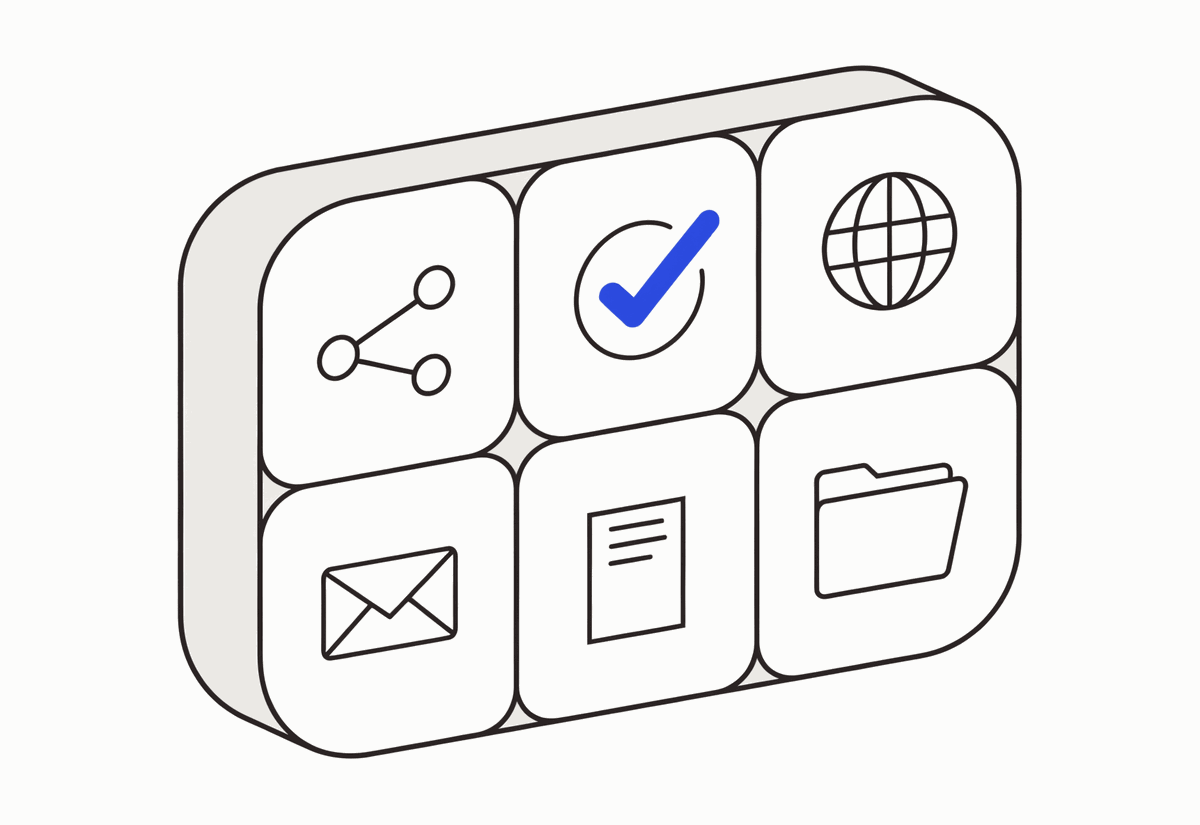
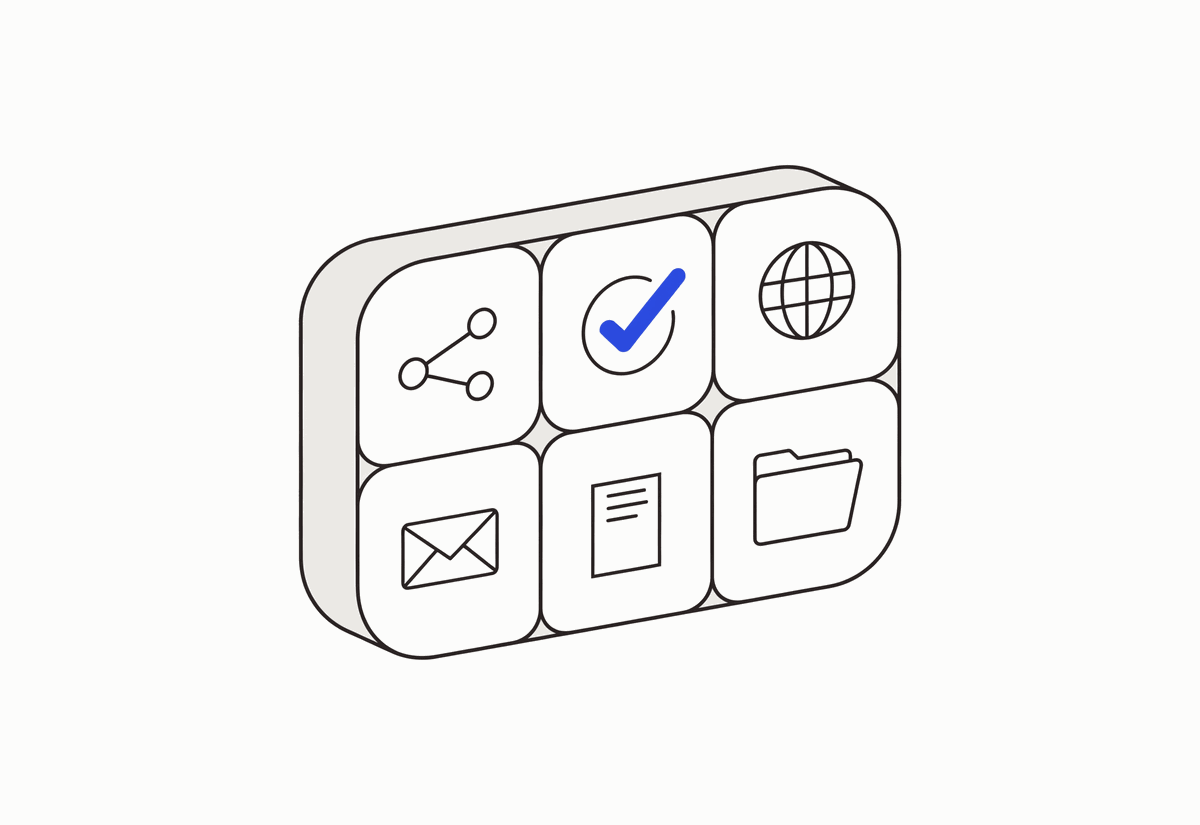
Value section: the Switch tools picture redrawn on one isometric grid, Built in smaller (note #1131)
Adam, 10 Nov 2026, 12:40 UTC, on the live section: the right picture
"should have more attention to details ... those shapes, they should be
aligned with each other", and the left "feels too much enlarged".

Switch tools, keep the context: redrawn by hand as an SVG (10 KB), every
shape computed on one true isometric grid. The base and three plates (notes
page, indented code, clock) share one footprint on one vertical axis with
equal gaps, held by one post; the blue cap is docked on top; the two spare
caps (a disc and a hexagon) stand on the same ground. Regenerating on
fal.ai was not possible: the account's balance is exhausted.

Built in: the same fal.ai picture, re-exported to fill 60% of its frame's
height instead of 84%, so it sits in proportion with the tower and the
words on a desk and on a phone.

diff --git a/src/components/ValueSection.tsx b/src/components/ValueSection.tsx
@@ -2,18 +2,23 @@ import { H2, Screen } from './landing-kit';
 import { VALUE_FACTS, VALUE_HEADING, VALUE_LEAD } from '../lib/value-copy';
 import builtIn640 from '../assets/landing/value/built-in-640.webp';
 import builtIn1200 from '../assets/landing/value/built-in-1200.webp';
-import switchTools640 from '../assets/landing/value/switch-tools-640.webp';
-import switchTools1200 from '../assets/landing/value/switch-tools-1200.webp';
+import switchTools from '../assets/landing/value/switch-tools.svg';
 
 /* One picture over each fact (note #1131, Adam, 10 Nov 2026, 11:26 UTC: the
-   pair he picked of three candidates each). Made with fal.ai (Recraft V4.1
-   Pro), held to the page's own colours; the prompts are on note #1131. The
-   page colour (#fcfcfb) is baked into each file, so no box shows. The words
-   under each picture say everything it shows, so the picture is decorative
-   (alt=""). 640 px serves a phone at 1x/2x, 1200 px a desk or a 3x phone. */
-const ART: Readonly<Record<string, readonly [string, string]>> = {
-  'Built in': [builtIn640, builtIn1200],
-  'Switch tools, keep the context': [switchTools640, switchTools1200],
+   pair he picked of three candidates each). "Built in" was made with fal.ai
+   (Recraft V4.1 Pro, prompts on note #1131): two lossless WebP files with the
+   page colour (#fcfcfb) baked in, so no box shows, 640 px for a phone at
+   1x/2x and 1200 px for a desk or a 3x phone. The drawing fills 60% of its
+   frame's height, since Adam found it "too much enlarged" at 84% (12:40 UTC).
+   "Switch tools, keep the context" was redrawn by hand as an SVG on one true
+   isometric grid after Adam asked that its shapes be "aligned with each
+   other" (12:40 UTC): every plate the same footprint on one vertical axis,
+   the blue cap docked on top, the two spare caps on the same ground. The
+   words under each picture say everything it shows, so both are decorative
+   (alt=""). */
+const ART: Readonly<Record<string, { src: string; srcSet?: string }>> = {
+  'Built in': { src: builtIn1200, srcSet: `${builtIn640} 640w, ${builtIn1200} 1200w` },
+  'Switch tools, keep the context': { src: switchTools },
 };
 
 /* The value in one breath (note #1085): its words live in lib/value-copy. */
@@ -27,14 +32,14 @@ export default function ValueSection() {
           identical cards, no eyebrows, no numbers). */}
       <dl className="mt-8 grid gap-x-10 sm:mt-10 sm:grid-cols-2">
         {VALUE_FACTS.map(({ title, line }) => {
-          const [small, large] = ART[title]!;
+          const art = ART[title]!;
           return (
             <div key={title} data-value-fact className="border-t border-hint/16 py-4 sm:py-5">
               <img
                 data-value-art
-                src={large}
-                srcSet={`${small} 640w, ${large} 1200w`}
-                sizes="(min-width: 640px) 50vw, 100vw"
+                src={art.src}
+                srcSet={art.srcSet}
+                sizes={art.srcSet ? '(min-width: 640px) 50vw, 100vw' : undefined}
                 alt=""
                 width={1200}
                 height={825}

diff --git a/src/pages/Home.test.tsx b/src/pages/Home.test.tsx
@@ -123,10 +123,13 @@ describe('Home, the product first and the own cloud second (note #835)', () => {
     expect(art).toHaveLength(2);
     for (const img of art) {
       expect(img.getAttribute('alt')).toBe('');
-      expect(img.getAttribute('srcset')).toMatch(/ 640w, .* 1200w$/);
       expect(img.getAttribute('width')).toBe('1200');
       expect(img.getAttribute('height')).toBe('825');
     }
+    // Built in: the fal.ai picture in two sizes. Switch tools: the hand-drawn
+    // SVG on one isometric grid (Adam, 10 Nov 2026, 12:40 UTC).
+    expect(art[0]!.getAttribute('srcset')).toMatch(/ 640w, .* 1200w$/);
+    expect(art[1]!.getAttribute('src')).toMatch(/switch-tools.*\.svg/);
   });
 
   // Note #841 (the owner, 30 Oct 2026, 13:31 UTC): one drawing of the whole
